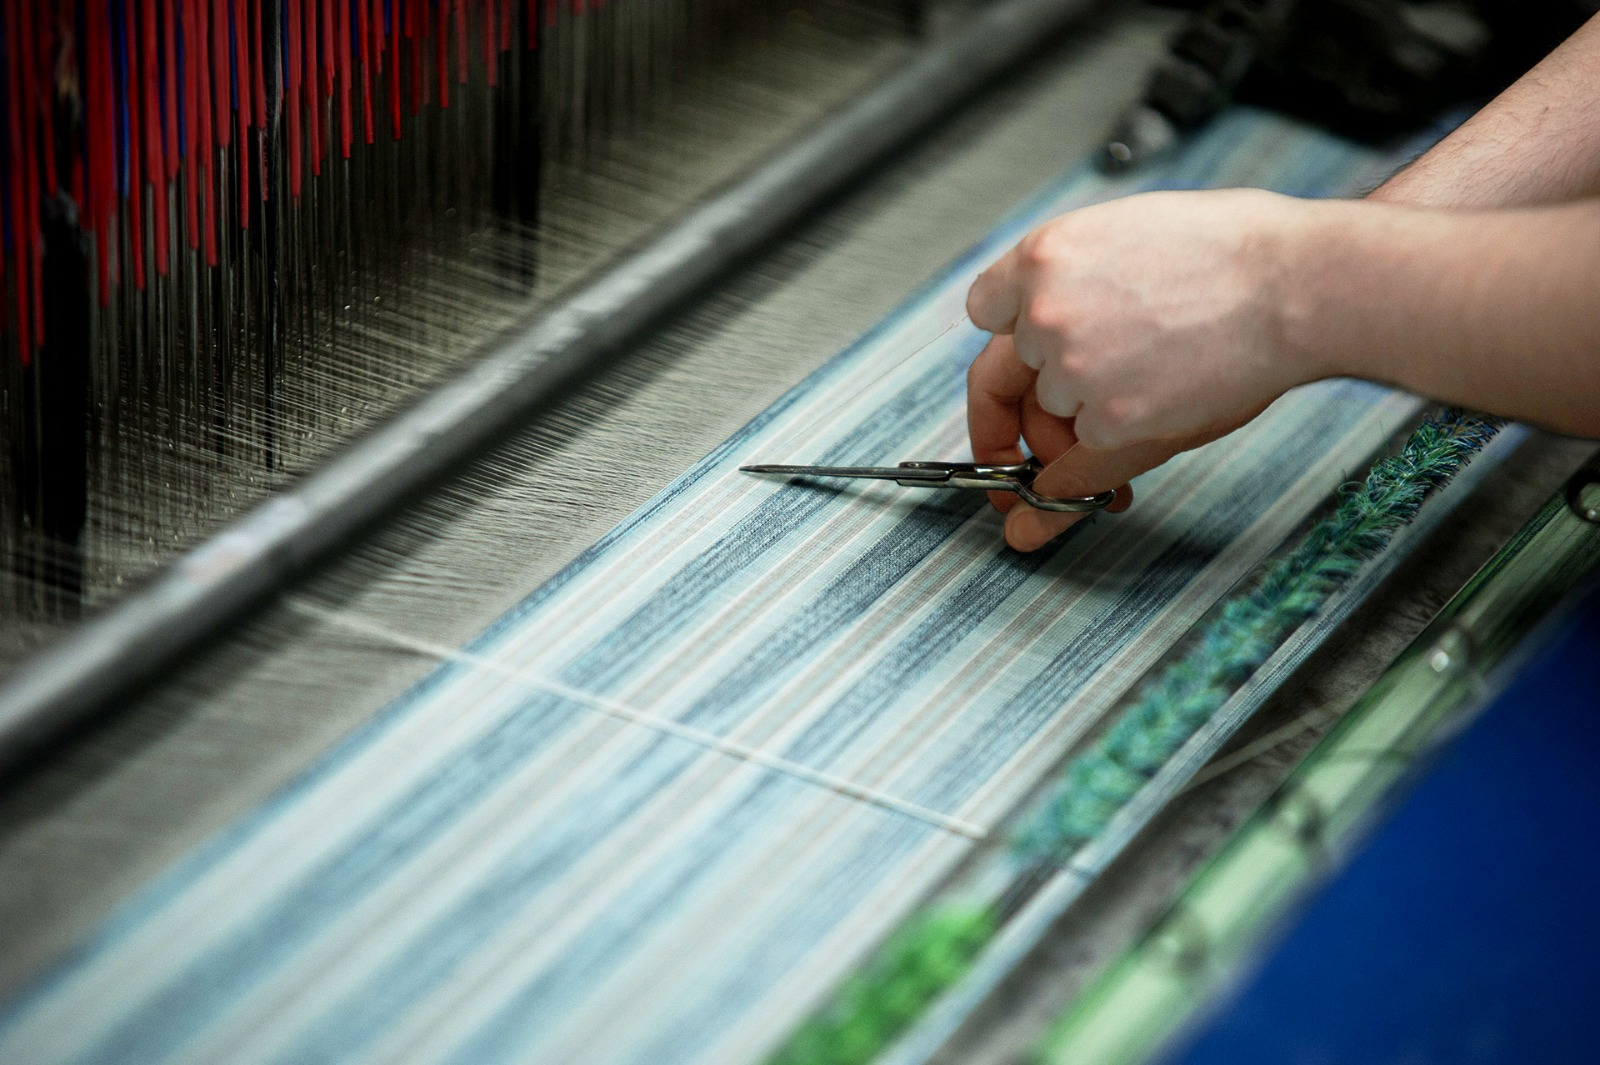
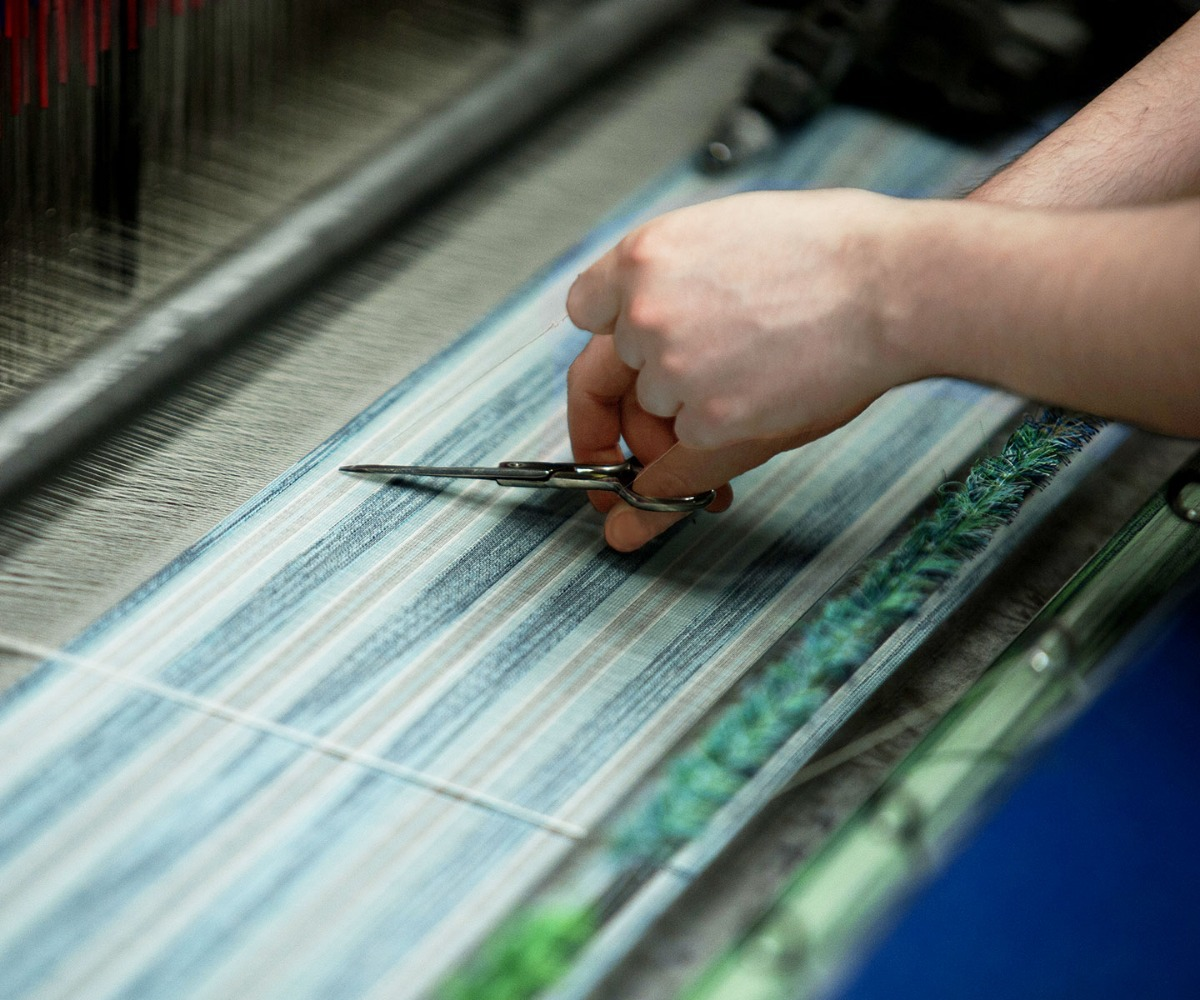
images size changed

diff --git a/product.html b/product.html
@@ -93,49 +93,10 @@
             </ol>
             <div class="carousel-inner" role="listbox">
                 <div class="item active">
-                    <img class="first-slide" src="img/mak/listItem1.jpeg" width="100%;" alt="1" />
+                    <img class="first-slide" src="img/mak/listItem2.jpeg" width="100%;" alt="1" />
                     <div class="container">
                         <div class="carousel-caption">
                             <h1>SALTANOĞLU TEKSTİL</h1>
-                            <p>750 mt karelik alan üzerine kurulmuş tesisimiz 340 cm eninde 6 adet Leonardo Silver
-                                model jakarlı
-                                dokuma makineleriyle Bursa’da hizmet vermektedir. Staubli JC5 jakar sistemleriyle
-                                modernize edilmiş
-                                makine parkuru aylık 50000 metre kumaş dokuma kapasitesine sahiptir.</p>
-                        </div>
-                    </div>
-                </div>
-                <div class="item">
-                    <img class="second-slide" src="img/mak/listItem2.jpeg" width="100%;" alt="2" />
-                    <div class="container">
-                        <div class="carousel-caption">
-                            <h1>HS SALTANOĞLU</h1>
-                            <p>750 mt karelik alan üzerine kurulmuş tesisimiz 340 cm eninde 6 adet Leonardo Silver
-                                model jakarlı
-                                dokuma makineleriyle Bursa’da hizmet vermektedir. Staubli JC5 jakar sistemleriyle
-                                modernize edilmiş
-                                makine parkuru aylık 50000 metre kumaş dokuma kapasitesine sahiptir.</p>
-                        </div>
-                    </div>
-                </div>
-                <div class="item">
-                    <img class="second-slide" src="img/mak/listItem3.jpeg" width="100%;" alt="2" />
-                    <div class="container">
-                        <div class="carousel-caption">
-                            <h1>HS SALTANOĞLU</h1>
-                            <p>750 mt karelik alan üzerine kurulmuş tesisimiz 340 cm eninde 6 adet Leonardo Silver
-                                model jakarlı
-                                dokuma makineleriyle Bursa’da hizmet vermektedir. Staubli JC5 jakar sistemleriyle
-                                modernize edilmiş
-                                makine parkuru aylık 50000 metre kumaş dokuma kapasitesine sahiptir.</p>
-                        </div>
-                    </div>
-                </div>
-                <div class="item">
-                    <img class="second-slide" src="img/mak/listItem4.jpeg" width="100%;" alt="2" />
-                    <div class="container">
-                        <div class="carousel-caption">
-                            <h1>HS SALTANOĞLU</h1>
                             <p>750 mt karelik alan üzerine kurulmuş tesisimiz 340 cm eninde 6 adet Leonardo Silver
                                 model jakarlı
                                 dokuma makineleriyle Bursa’da hizmet vermektedir. Staubli JC5 jakar sistemleriyle
@@ -172,6 +133,45 @@
                 </div>
                 <div class="item">
                     <img class="second-slide" src="img/mak/listItem7.jpeg" width="100%;" alt="2" />
+                    <div class="container">
+                        <div class="carousel-caption">
+                            <h1>HS SALTANOĞLU</h1>
+                            <p>750 mt karelik alan üzerine kurulmuş tesisimiz 340 cm eninde 6 adet Leonardo Silver
+                                model jakarlı
+                                dokuma makineleriyle Bursa’da hizmet vermektedir. Staubli JC5 jakar sistemleriyle
+                                modernize edilmiş
+                                makine parkuru aylık 50000 metre kumaş dokuma kapasitesine sahiptir.</p>
+                        </div>
+                    </div>
+                </div>
+                <div class="item">
+                    <img class="second-slide" src="img/mak/listItem1.jpeg" width="100%;" alt="2" />
+                    <div class="container">
+                        <div class="carousel-caption">
+                            <h1>HS SALTANOĞLU</h1>
+                            <p>750 mt karelik alan üzerine kurulmuş tesisimiz 340 cm eninde 6 adet Leonardo Silver
+                                model jakarlı
+                                dokuma makineleriyle Bursa’da hizmet vermektedir. Staubli JC5 jakar sistemleriyle
+                                modernize edilmiş
+                                makine parkuru aylık 50000 metre kumaş dokuma kapasitesine sahiptir.</p>
+                        </div>
+                    </div>
+                </div>
+                <div class="item">
+                    <img class="second-slide" src="img/mak/listItem3.jpeg" width="100%;" alt="2" />
+                    <div class="container">
+                        <div class="carousel-caption">
+                            <h1>HS SALTANOĞLU</h1>
+                            <p>750 mt karelik alan üzerine kurulmuş tesisimiz 340 cm eninde 6 adet Leonardo Silver
+                                model jakarlı
+                                dokuma makineleriyle Bursa’da hizmet vermektedir. Staubli JC5 jakar sistemleriyle
+                                modernize edilmiş
+                                makine parkuru aylık 50000 metre kumaş dokuma kapasitesine sahiptir.</p>
+                        </div>
+                    </div>
+                </div>
+                <div class="item">
+                    <img class="second-slide" src="img/mak/listItem4.jpeg" width="100%;" alt="2" />
                     <div class="container">
                         <div class="carousel-caption">
                             <h1>HS SALTANOĞLU</h1>
